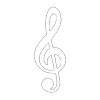
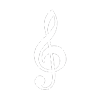
added background-animation

diff --git a/css/style.css b/css/style.css
@@ -1,9 +1,218 @@
-body {
-    background: url(../img/pic.jpg) no-repeat center center fixed;
-    background-size: cover;
-    color: rgba(255, 255, 255, 0.9);
-    font-family: Arial;
+/* background slideshow */
+
+.bg-slideshow,
+.bg-slideshow:after {
+    position: fixed;
+    width: 100%;
+    height: 100%;
+    top: 0px;
+    left: 0px;
+    z-index: 0;
 }
+
+.bg-slideshow div span {
+    width: 100%;
+    height: 100%;
+    position: absolute;
+    top: 0px;
+    left: 0px;
+    color: transparent;
+    background-size: cover;
+    background-position: 50% 50%;
+    background-repeat: none;
+    opacity: 0;
+    z-index: 0;
+    -webkit-animation: imgAnimation 72s linear infinite 0s;
+    animation: imgAnimation 72s linear infinite 0s;
+}
+
+.bg-slideshow div div {
+    z-index: 1000;
+    position: absolute;
+    bottom: 30px;
+    left: 0px;
+    width: 100%;
+    text-align: center;
+    opacity: 0;
+    color: #fff;
+    -webkit-animation: titleAnimation 72s linear infinite 0s;
+    animation: titleAnimation 72s linear infinite 0s;
+}
+
+.bg-slideshow div:nth-child(1) span {
+    background-image: url(../img/pic1.jpg)
+}
+
+.bg-slideshow div:nth-child(2) span {
+    background-image: url(../img/pic2.jpg);
+    -webkit-animation-delay: 8s;
+    animation-delay: 8s;
+}
+
+.bg-slideshow div:nth-child(3) span {
+    background-image: url(../img/pic3.jpg);
+    -webkit-animation-delay: 16s;
+    animation-delay: 16s;
+}
+
+.bg-slideshow div:nth-child(4) span {
+    background-image: url(../img/pic4.jpg);
+    -webkit-animation-delay: 24s;
+    animation-delay: 24s;
+}
+
+.bg-slideshow div:nth-child(5) span {
+    background-image: url(../img/pic5.jpg);
+    -webkit-animation-delay: 32s;
+    animation-delay: 32s;
+}
+
+.bg-slideshow div:nth-child(6) span {
+    background-image: url(../img/pic6.jpg);
+    -webkit-animation-delay: 40s;
+    animation-delay: 40s;
+}
+
+.bg-slideshow div:nth-child(7) span {
+    background-image: url(../img/pic7.jpg);
+    -webkit-animation-delay: 48s;
+    animation-delay: 48s;
+}
+
+.bg-slideshow div:nth-child(8) span {
+    background-image: url(../img/pic8.jpg);
+    -webkit-animation-delay: 56s;
+    animation-delay: 56s;
+}
+
+.bg-slideshow div:nth-child(9) span {
+    background-image: url(../img/pic9.jpg);
+    -webkit-animation-delay: 64s;
+    animation-delay: 64s;
+}
+
+.bg-slideshow div:nth-child(2) div {
+    -webkit-animation-delay: 8s;
+    animation-delay: 8s;
+}
+
+.bg-slideshow div:nth-child(3) div {
+    -webkit-animation-delay: 16s;
+    animation-delay: 16s;
+}
+
+.bg-slideshow div:nth-child(4) div {
+    -webkit-animation-delay: 24s;
+    animation-delay: 24s;
+}
+
+.bg-slideshow div:nth-child(5) div {
+    -webkit-animation-delay: 32s;
+    animation-delay: 32s;
+}
+
+.bg-slideshow div:nth-child(6) div {
+    -webkit-animation-delay: 40s;
+    animation-delay: 40s;
+}
+
+.bg-slideshow div:nth-child(7) div {
+    -webkit-animation-delay: 48s;
+    animation-delay: 48s;
+}
+
+.bg-slideshow div:nth-child(8) div {
+    -webkit-animation-delay: 56s;
+    animation-delay: 56s;
+}
+
+.bg-slideshow div:nth-child(9) div {
+    -webkit-animation-delay: 64s;
+    animation-delay: 64s;
+}
+
+@-webkit-keyframes imgAnimation {
+    0% {
+        opacity: 0;
+        -webkit-animation-timing-function: ease-in;
+        animation-timing-function: ease-in;
+    }
+    8% {
+        opacity: 1;
+        -webkit-animation-timing-function: ease-out;
+        animation-timing-function: ease-out;
+    }
+    17% {
+        opacity: 1
+    }
+    25% {
+        opacity: 0
+    }
+    100% {
+        opacity: 0
+    }
+}
+
+@keyframes imgAnimation {
+    0% {
+        opacity: 0;
+        -webkit-animation-timing-function: ease-in;
+        animation-timing-function: ease-in;
+    }
+    8% {
+        opacity: 1;
+        -webkit-animation-timing-function: ease-out;
+        animation-timing-function: ease-out;
+    }
+    17% {
+        opacity: 1
+    }
+    25% {
+        opacity: 0
+    }
+    100% {
+        opacity: 0
+    }
+}
+
+@-webkit-keyframes titleAnimation {
+    0% {
+        opacity: 0
+    }
+    8% {
+        opacity: 1
+    }
+    17% {
+        opacity: 1
+    }
+    19% {
+        opacity: 0
+    }
+    100% {
+        opacity: 0
+    }
+}
+
+@keyframes titleAnimation {
+    0% {
+        opacity: 0
+    }
+    8% {
+        opacity: 1
+    }
+    17% {
+        opacity: 1
+    }
+    19% {
+        opacity: 0
+    }
+    100% {
+        opacity: 0
+    }
+}
+
+
+/* text & music */
 
 .stillness {
     height: 600px;
@@ -14,30 +223,70 @@ body {
     width: 100%;
 }
 
+.animated {
+    color: rgba(255, 255, 255, 0.9);
+    font-family: Arial;
+    font-size: 22px;
+    -webkit-animation-duration: 3s;
+    animation-duration: 3s;
+    -webkit-animation-fill-mode: both;
+    animation-fill-mode: both;
+    -webkit-animation-timing-function: ease-in;
+    animation-timing-function: ease-in;
+}
+
+@-webkit-keyframes fadeIn {
+    0% {
+        opacity: 0;
+    }
+    100% {
+        opacity: 1;
+    }
+}
+
+@keyframes fadeIn {
+    0% {
+        opacity: 0;
+    }
+    100% {
+        opacity: 1;
+    }
+}
+
+.fadeIn {
+    -webkit-animation-name: fadeIn;
+    animation-name: fadeIn;
+}
+
 .clef {
     background: url(../img/clef.png) 0px 0px no-repeat;
     opacity: 0.6;
     height: 100px;
     width: 100px;
     position: absolute;
-	left: 90%;
+    left: 93%;
     top: 2%;
     -webkit-animation: pulse 1s ease infinite;
     animation: pulse 1s ease infinite;
+    -webkit-animation-duration: 2s;
+    animation-duration: 2s;
+    -webkit-animation-fill-mode: both;
+    animation-fill-mode: both;
+    -webkit-animation-timing-function: ease-in-out;
+    animation-timing-function: ease-in-out;
+    animation-iteration-count: infinite;
+    -webkit-animation-iteration-count: infinite;
 }
 
 @-webkit-keyframes pulse {
     0% {
         -webkit-transform: scale(1);
-        transform: scale(1);
     }
     50% {
         -webkit-transform: scale(1.1);
-        transform: scale(1.1);
     }
     100% {
         -webkit-transform: scale(1);
-        transform: scale(1);
     }
 }
 
@@ -54,4 +303,9 @@ body {
         -webkit-transform: scale(1);
         transform: scale(1);
     }
+}
+
+.pulse {
+    -webkit-animation-name: pulse;
+    animation-name: pulse;
 }

diff --git a/index.html b/index.html
@@ -8,11 +8,23 @@
 </head>
 
 <body>
-
+    <div class="bg-slideshow">
+        <div><span></span></div>
+        <div><span></span></div>
+        <div><span></span></div>
+        <div><span></span></div>
+        <div><span></span></div>
+        <div><span></span></div>
+        <div><span></span></div>
+        <div><span></span></div>
+        <div><span></span></div>
+    </div>
     <div class="stillness">
-
-        <br><h2>moment of stillness</h2>
-        <p>just click on a clef</p>
+        <div class="animated fadeIn">
+            <br>
+            <h2>moment of stillness</h2>
+            <p>just click on a clef</p>
+        </div>
         <div class="clef"></div>
 
         <audio loop="loop">
@@ -20,7 +32,7 @@
         </audio>
 
     </div>
-    
+
     <script src="bower_components/jquery/dist/jquery.js"></script>
     <script src="js/player.js"></script>
 </body>
